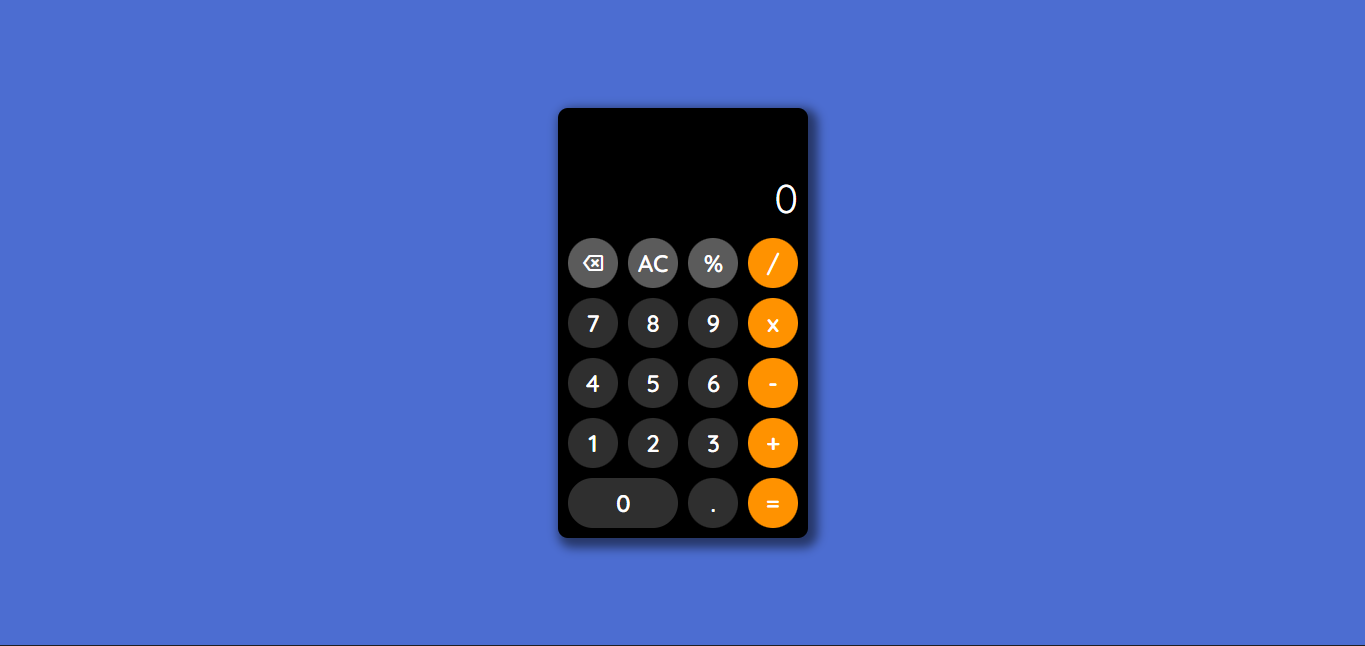
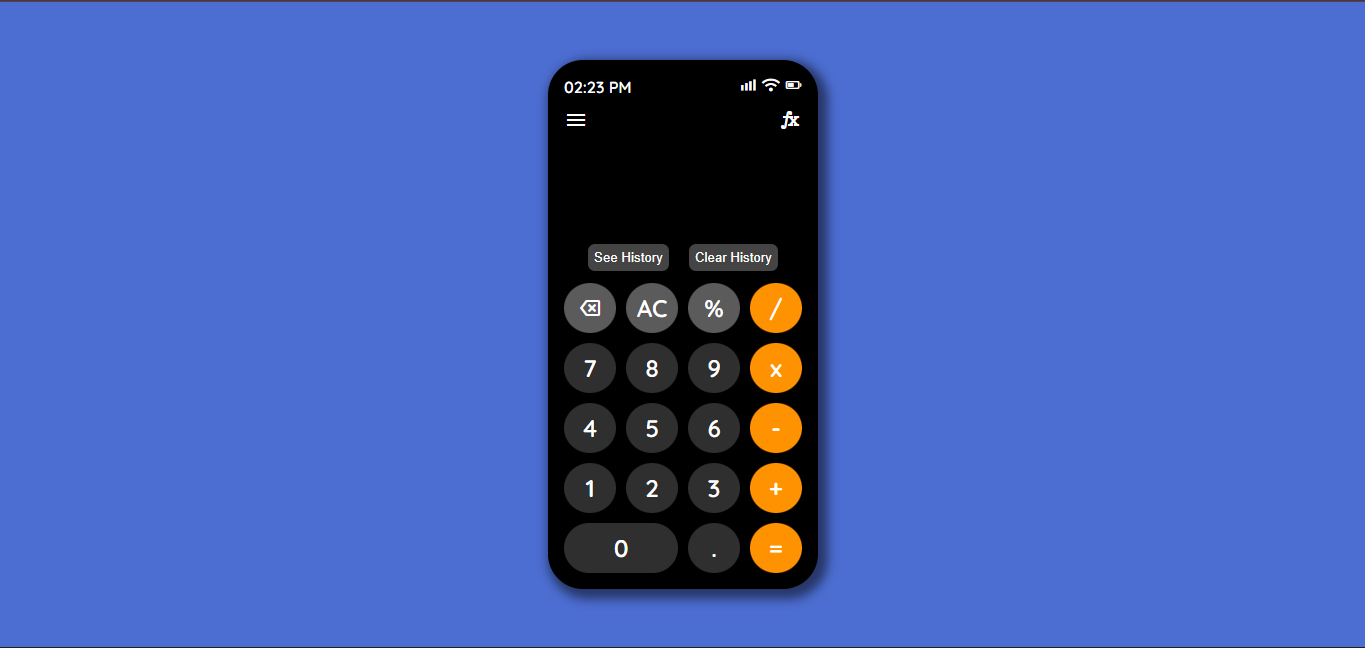
Project Completed

Changed region(s): [[0.4, 0.0619, 0.6154, 0.9288]]

diff --git a/index.html b/index.html
@@ -22,8 +22,8 @@
     <main>
         <section class="hero">
             <div class="wrap hero-inner">
-                <h1 class="hero-title">A Curated Collection of Assignments</h1>
-                <p class="hero-sub">Clean, responsive demos and small projects built while learning web development.</p>
+                <h1 class="hero-title">A handpicked collection of assignments.</h1>
+                <p class="hero-sub">Clean, responsive demos and small projects made while learning web development.</p>
                 <div class="hero-cta">
                     <a class="btn primary" href="#html">Explore Assignments</a>
                 </div>
